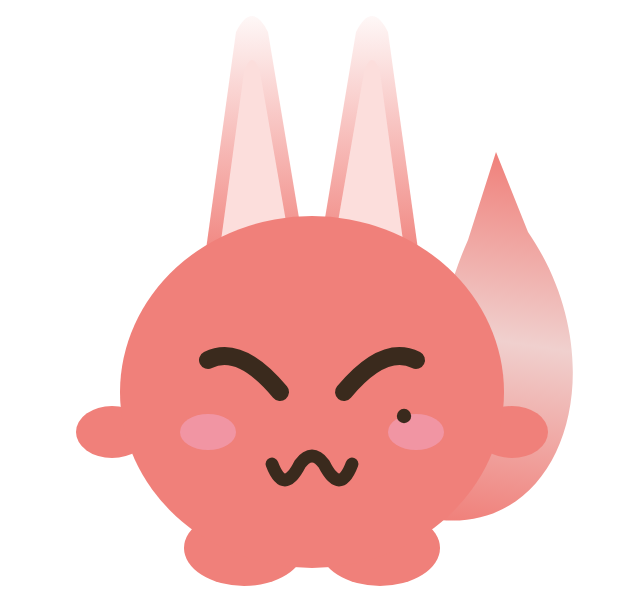
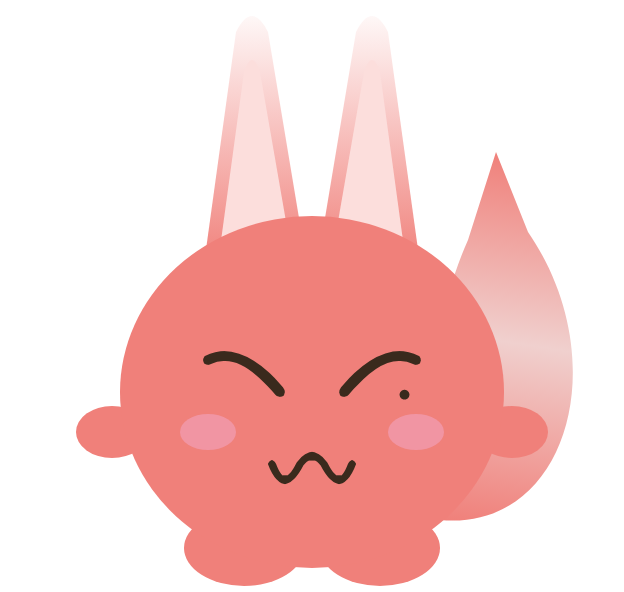
Thin 玖球's eyes and mouth; make the beauty mark smaller and higher
- Thin the eye and mouth strokes in all 玖球 PNGs and home-screen icons
- Shrink the beauty mark and move it up between the eye and blush
- Match the SVG fallback in mole-icon.js

Changed region(s): [[0.5176, 0.5777, 0.7003, 0.7297], [0.3045, 0.5777, 0.4872, 0.6993], [0.4263, 0.7601, 0.5785, 0.8209]]

diff --git a/games/mole-icon.js b/games/mole-icon.js
@@ -34,10 +34,10 @@ function moleSvgMarkup(idSuffix, furColor) {
   '<ellipse cx="60" cy="66" rx="48" ry="44" fill="' + fur + '"/>' +
   '<ellipse cx="34" cy="76" rx="7" ry="4.5" fill="#F3A6C4" opacity=".55"/>' +
   '<ellipse cx="86" cy="76" rx="7" ry="4.5" fill="#F3A6C4" opacity=".55"/>' +
-  '<path d="M52,66 Q42,54 34,58" fill="none" stroke="var(--ink)" stroke-width="4.5" stroke-linecap="round"/>' +
-  '<path d="M68,66 Q78,54 86,58" fill="none" stroke="var(--ink)" stroke-width="4.5" stroke-linecap="round"/>' +
-  '<circle cx="83" cy="72" r="1.8" fill="var(--ink)"/>' +
-  '<path d="M50,84 Q53,92 57,84 Q60,80 63,84 Q67,92 70,84" fill="none" stroke="var(--ink)" stroke-width="3.2" stroke-linecap="round" stroke-linejoin="round"/>' +
+  '<path d="M52,66 Q42,54 34,58" fill="none" stroke="var(--ink)" stroke-width="2.5" stroke-linecap="round"/>' +
+  '<path d="M68,66 Q78,54 86,58" fill="none" stroke="var(--ink)" stroke-width="2.5" stroke-linecap="round"/>' +
+  '<circle cx="83" cy="66.5" r="1.3" fill="var(--ink)"/>' +
+  '<path d="M50,84 Q53,92 57,84 Q60,80 63,84 Q67,92 70,84" fill="none" stroke="var(--ink)" stroke-width="1.9" stroke-linecap="round" stroke-linejoin="round"/>' +
   '</svg>';
 }
 
